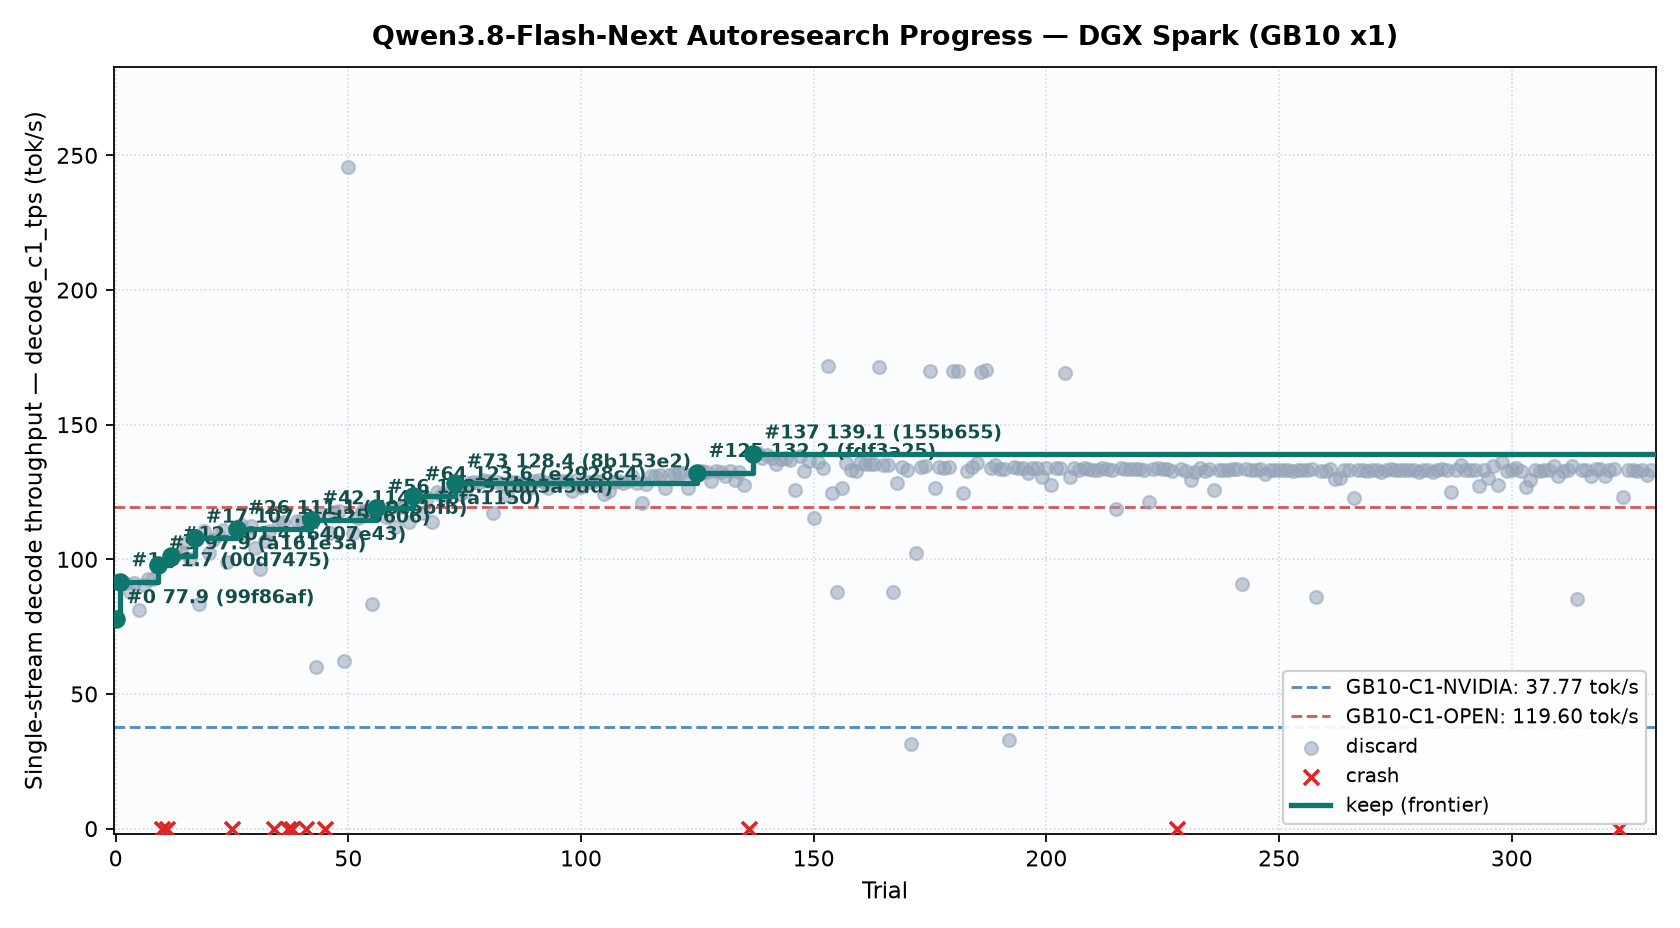
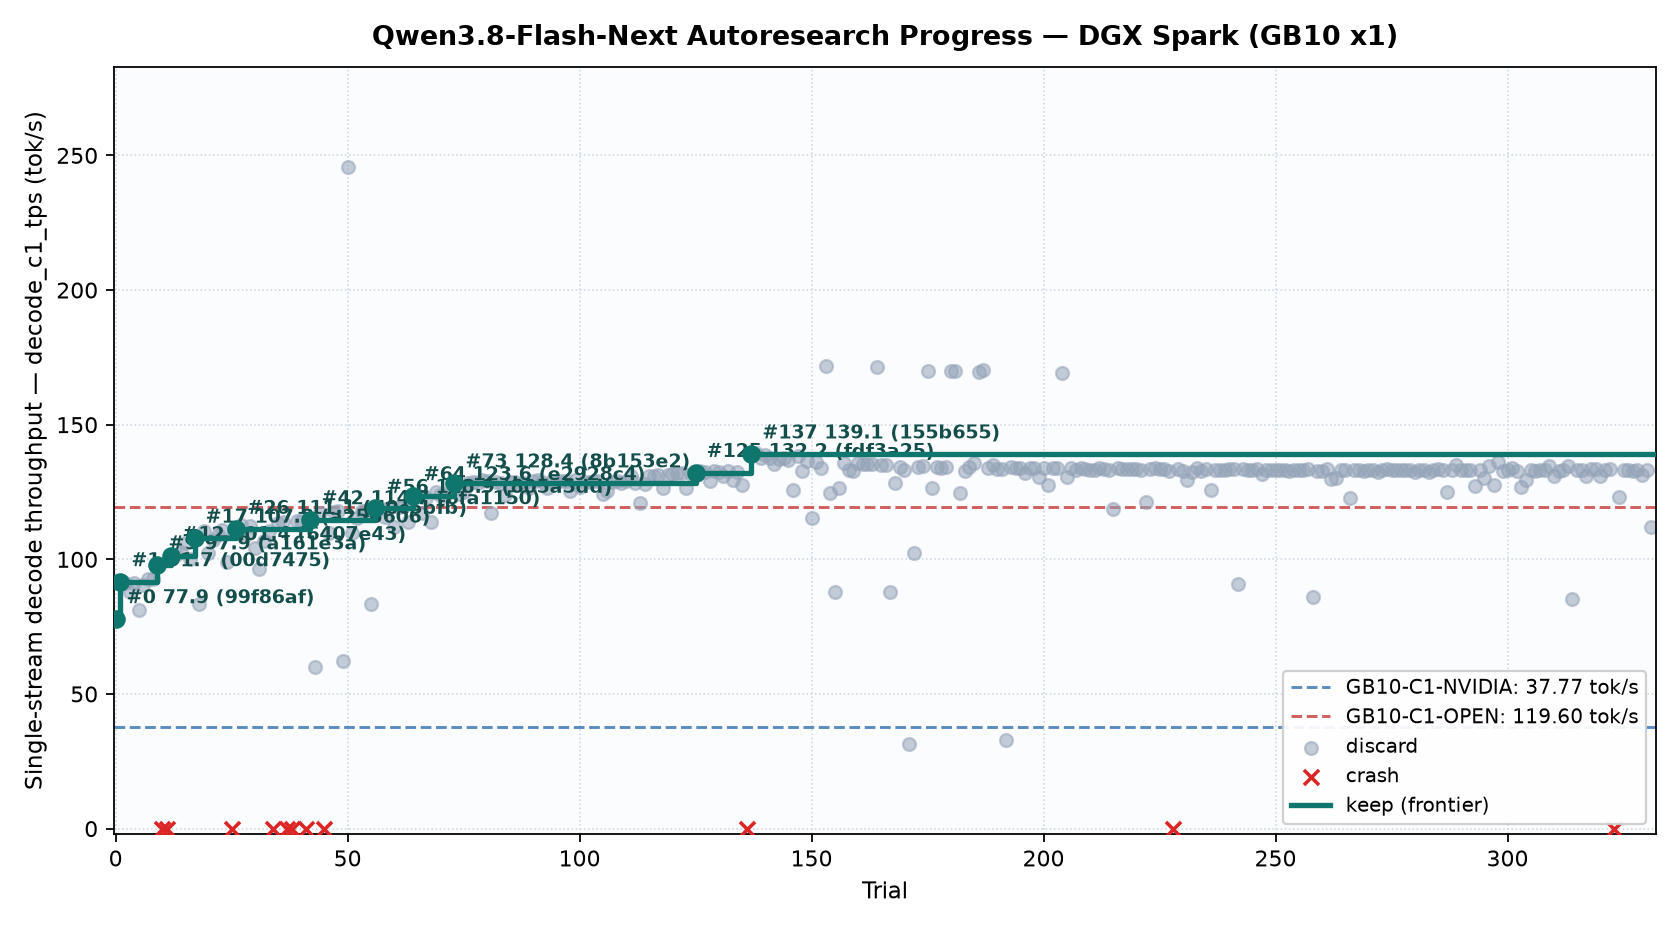
spark trial 331: discard

diff --git a/records/research-log.md b/records/research-log.md
@@ -364,3 +364,4 @@ Deprioritized: **3-bit expert weights** (Hibana +43% but GPQA -0.3, LCB -2.3; on
 | 2026-11-23 05:26 | 328 (new stack) | <https://github.com/ashhart/TensorFold/blob/v1.2.9/zig/kernels/cuda/nvfp4_experts.cu> | Checked releases, commits and PRs for six engines. Trial 327 recorded 132.80 C1 and 240.52 C8 with hash_match=1 (discard). | Test a lossless target-weight layout. Put the first two exceptional scale bytes and positions for each 64-scale group in unused strip padding. Further exceptions use the existing table. |
 | 2026-11-23 05:37 | 329 (new stack) | <https://huggingface.co/diffbot/Qwen3.8-Flash-Next-FP4-Local-DGX-Spark/tree/38b78560cc7d4b91287c9d5bb49da728e16f46eb> | Checked release, commit and PR feeds for six engines. Trial 298 scored 136.16 C1 with the donor hidden input branch, trial 313 scored 134.54 with its projection alone. | Adopt only the tuned pre-projection hidden normalization for MTP. Keep the NVFP4 target and original draft projections. |
 | 2026-11-23 05:42 | 330 (new stack) | <https://github.com/eugene-kamenev/Infernix-dgx-spark-gb10> | Checked releases, commits and PRs for all six engines. Trial 329 recorded 131.39 C1 and 240.16 C8 (discard). | Adapt the grouped CTA schedule to the NVFP4 gate and up projection. Visit four adjacent output strips per item within a group of eight planned items to reuse activations while balancing expert work. |
+| 2026-11-23 05:51 | 331 (new stack) | <https://github.com/sharar-project/hibana/blob/v0.1.0/hibana/kernels/kv_fp4.py> | Checked releases, commits and PRs for all six engines. Trial 330 recorded 133.23 C1 and 240.59 C8 (discard). | Hibana item 2. Test scaled FP8 keys and values for decode and prefill. Keep existing row allocations and the BF16 index cache. Each 32-element group stores 32 payload bytes and a four-byte scale. |
